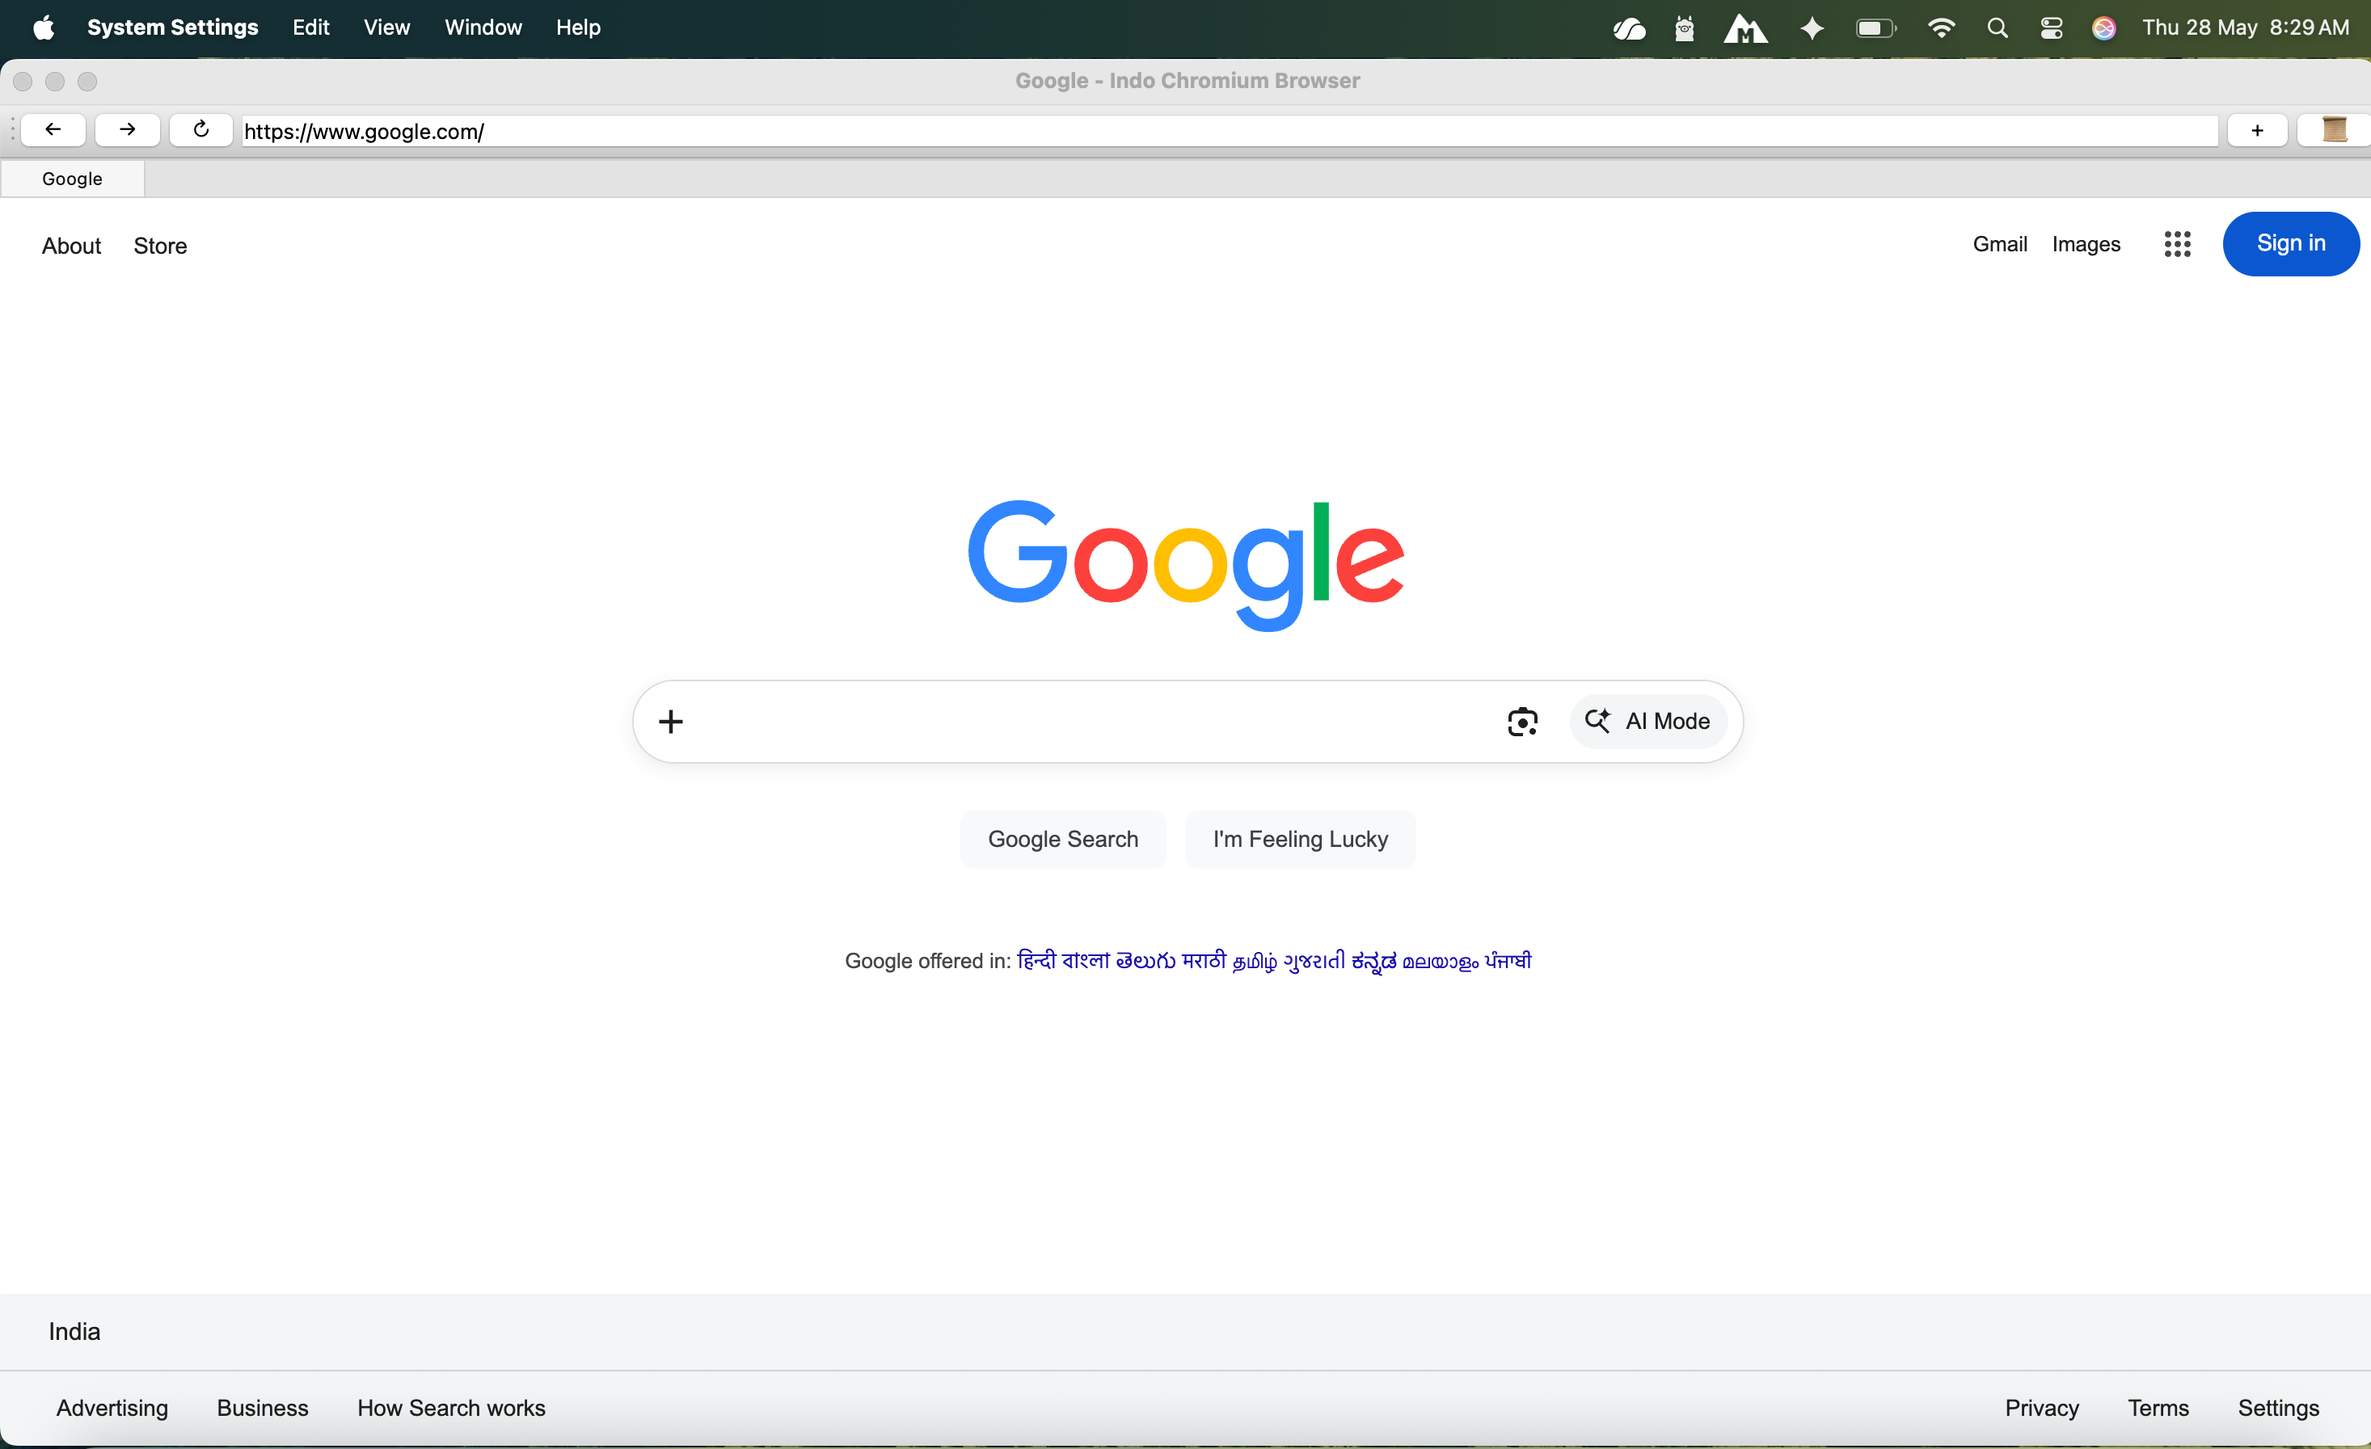
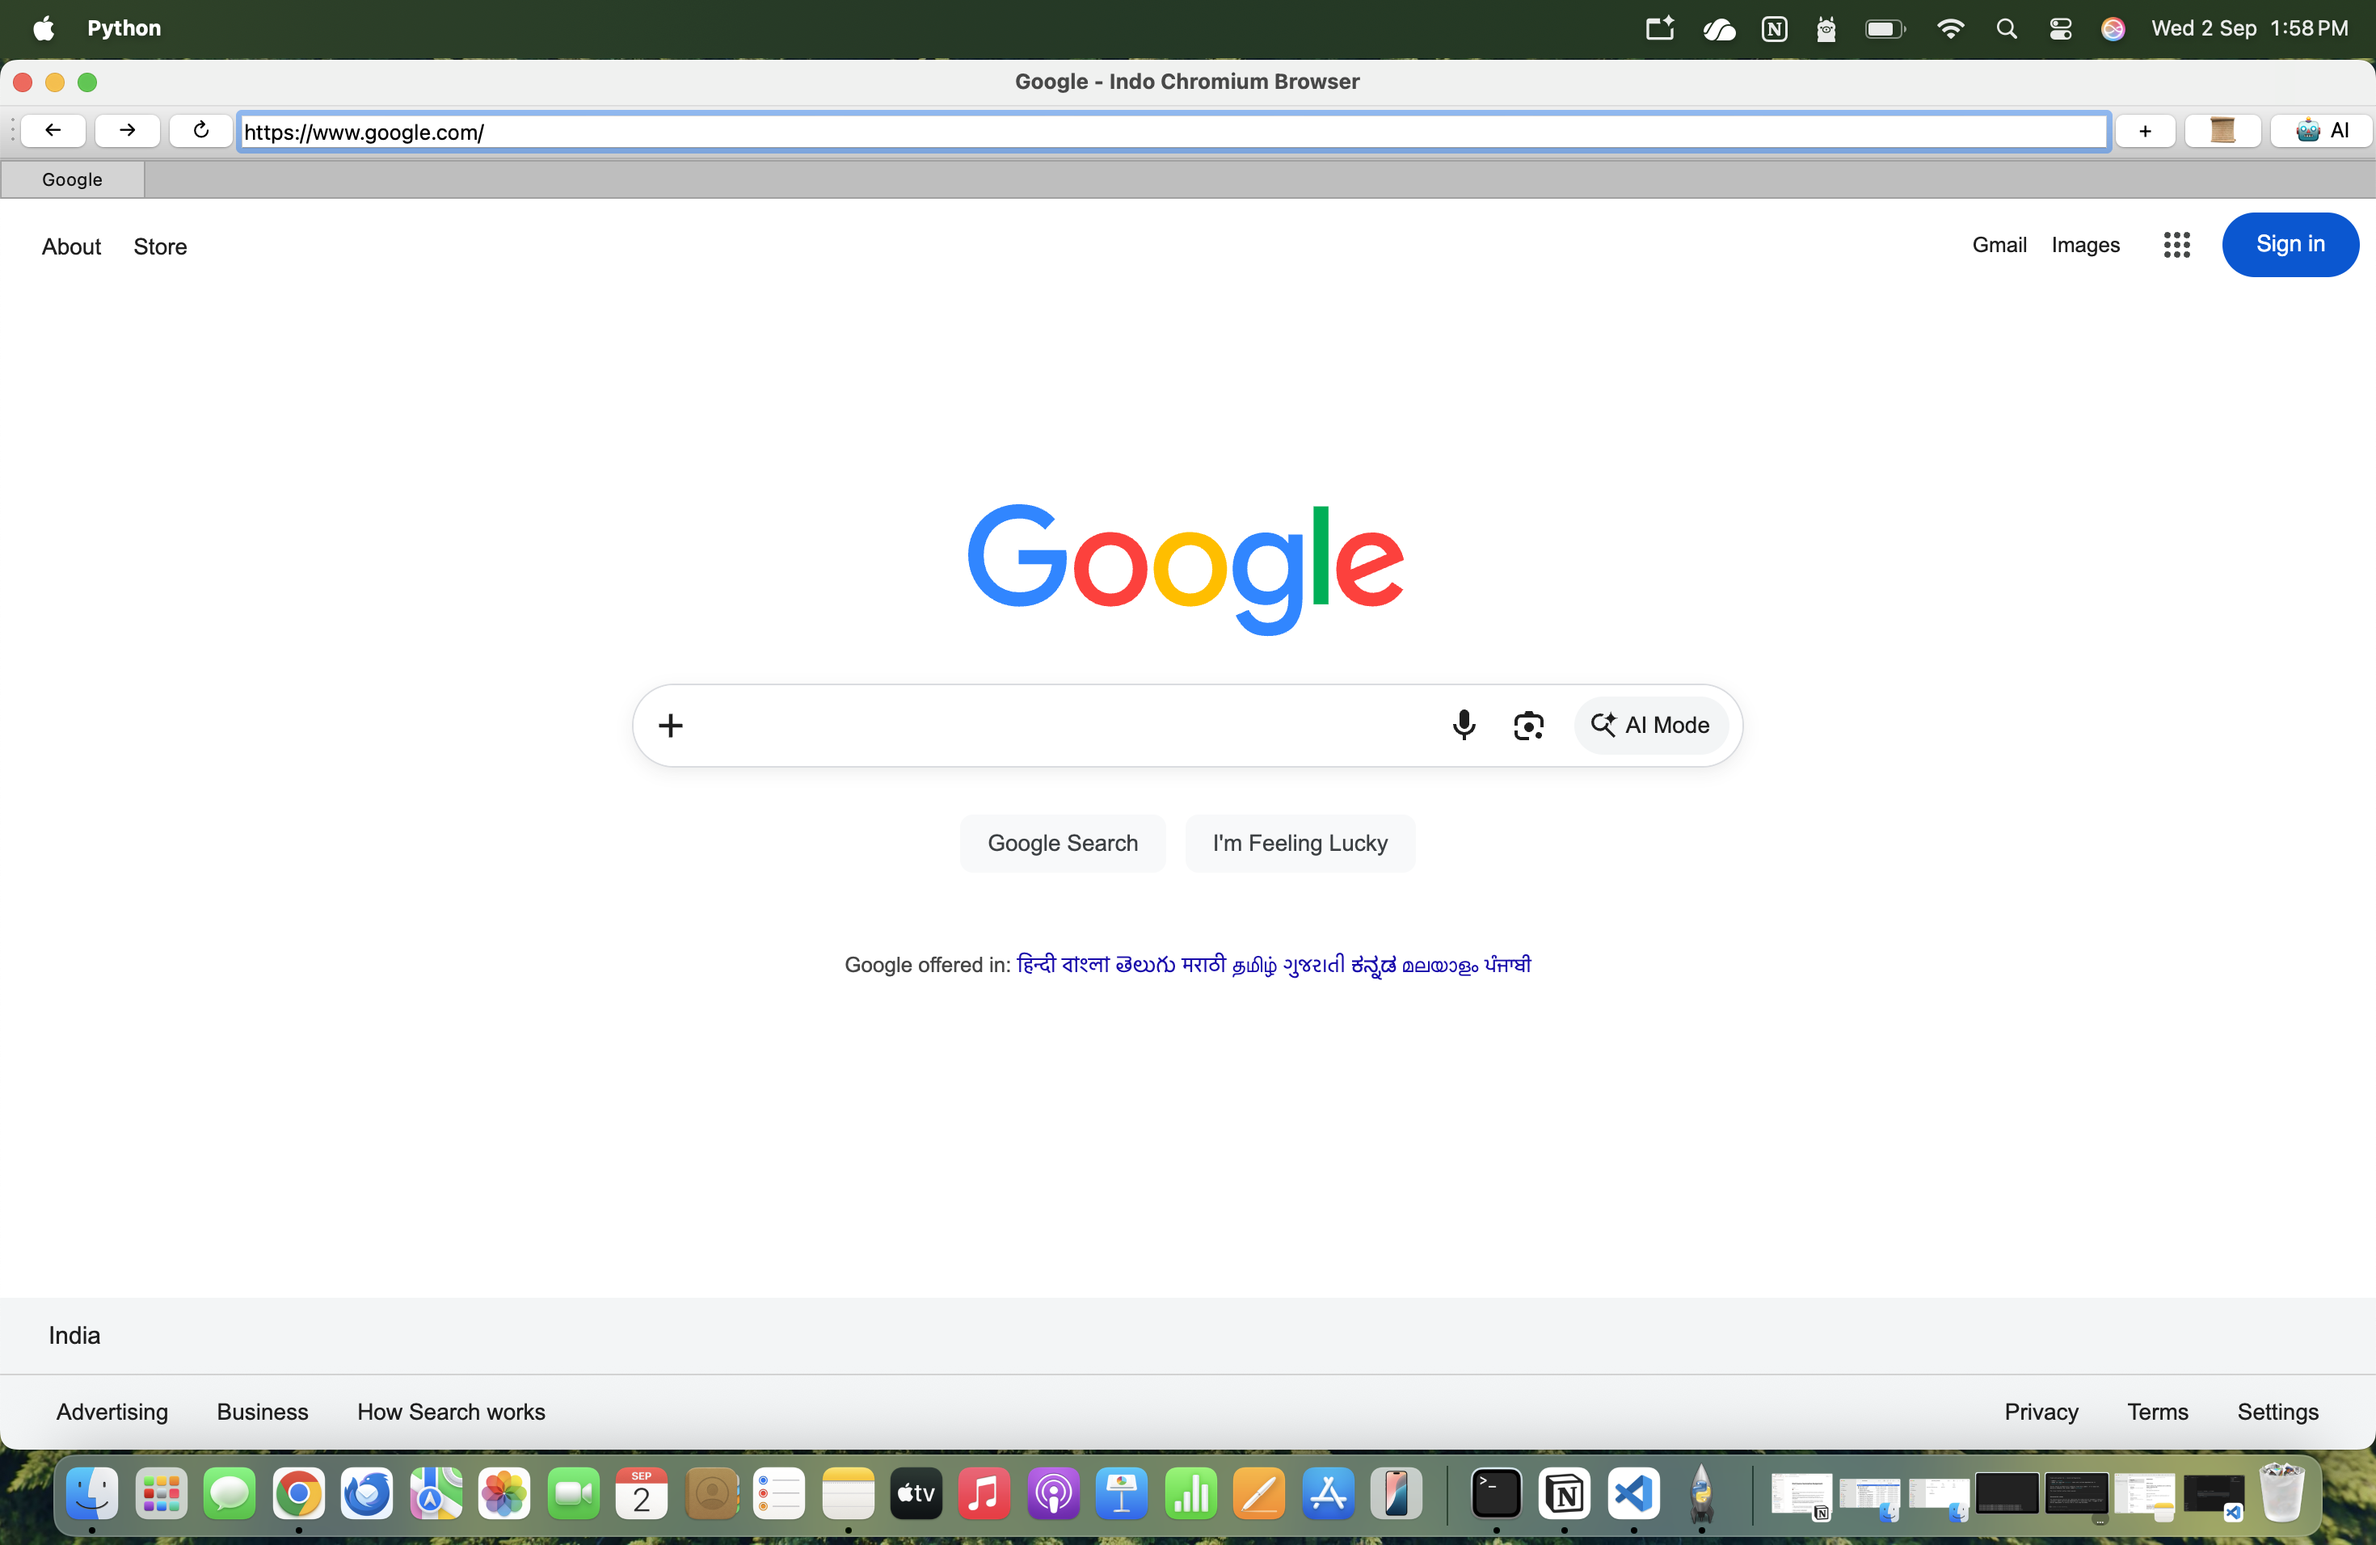
Add MiniCPM AI webpage assistant

diff --git a/README.md b/README.md
@@ -1,29 +1,276 @@
-# Personal Browser
+# Indo Chromium Browser + MiniCPM AI
 
-## Overview
-This project implements a multi-tab browser using PyQt6. The application allows users to open multiple tabs, navigate through various web pages, and manage their browsing experience effectively.
+A lightweight multi-tab desktop browser built with **PyQt6** and **PyQt6-WebEngine**, with an integrated AI sidebar powered by **MiniCPM5-2B-0822** through the ModelBest API.
+
+The AI assistant can read the currently displayed webpage and answer questions about its content.
 
 ## Features
-- Multi-tab support
-- User-friendly interface
-- Fast and responsive design
-- Customizable settings
+
+### Browser
+- Multi-tab browsing
+- New tab button
+- Back, Forward, Reload, and Home navigation
+- URL/search bar
+- Google search when a search phrase is entered
+- Browser history
+- External history-file opening
+- Chromium-based webpage rendering through Qt WebEngine
+
+### AI Assistant
+- Integrated AI sidebar
+- Powered by `MiniCPM5-2B-0822`
+- Uses the ModelBest Chat Completions API
+- Read the current webpage with one click
+- Ask questions about the current webpage
+- Page title and URL are included as context
+- Automatic webpage reading when asking a question without existing page context
+- Chat history during the current session
+- Clear chat option
+- Handles API, HTTP, and network errors
 
 ## Requirements
-- Python 3.x
-- PyQt6 library
+
+- Python 3.9+ recommended
+- PyQt6
+- PyQt6-WebEngine
+- A ModelBest API key with access to `MiniCPM5-2B-0822`
 
 ## Installation
-To install the required libraries, use the following command:
-```
-pip install PyQt6 PyQt6-WebEngine
+
+Clone the repository:
+
+```bash
+git clone https://github.com/shirishsriv/personal_browser.git
+cd personal_browser
 ```
 
-## Usage
-Run the application using:
+Install dependencies:
+
+```bash
+python3 -m pip install PyQt6 PyQt6-WebEngine
 ```
+
+### macOS Python note
+
+If `pip` and `python3` point to different Python installations, install using the same Python executable that will run the application:
+
+```bash
+python3 -m pip install PyQt6 PyQt6-WebEngine
+```
+
+You can check the Python installation with:
+
+```bash
+which python3
+python3 --version
+python3 -c "import sys; print(sys.executable)"
+```
+
+If you use the Python 3.11 installation from the official Python framework on macOS:
+
+```bash
+/Library/Frameworks/Python.framework/Versions/3.11/bin/python3 -m pip install PyQt6 PyQt6-WebEngine
+```
+
+## Configure the ModelBest API Key
+
+The application reads the API key from the environment variable:
+
+```text
+MODEL_BEST_API_KEY
+```
+
+### macOS / Linux
+
+```bash
+export MODEL_BEST_API_KEY="YOUR_TEST_KEY"
+```
+
+Then run:
+
+```bash
 python3 main.py
 ```
 
+### Windows PowerShell
+
+```powershell
+$env:MODEL_BEST_API_KEY="YOUR_TEST_KEY"
+python main.py
+```
+
+**Never hard-code the API key inside `main.py` and never commit it to GitHub.**
+
+## Running the Application
+
+From the project directory:
+
+```bash
+python3 main.py
+```
+
+On macOS, if necessary:
+
+```bash
+/Library/Frameworks/Python.framework/Versions/3.11/bin/python3 main.py
+```
+
+## Using the AI Assistant
+
+1. Start the browser.
+2. Open a webpage.
+3. Click the **🤖 AI** button to open the AI sidebar.
+4. Click **📖 Read Current Page**.
+5. Wait for the page content to be extracted.
+6. Type a question in the AI input box.
+7. Click **Send**.
+
+Example questions:
+
+```text
+Summarize this webpage.
+```
+
+```text
+What are the main points of this article?
+```
+
+```text
+Explain this page in simple language.
+```
+
+```text
+What are the important facts mentioned on this page?
+```
+
+The application extracts the rendered webpage text using Qt WebEngine's `toPlainText()` functionality. Very large pages are limited to approximately 30,000 characters to keep the AI request manageable.
+
+## Project Structure
+
+```text
+personal_browser/
+├── main.py
+├── README.md
+└── Application_Screenshot.png
+```
+
+## API Configuration
+
+The application communicates with:
+
+```text
+https://api.modelbest.cn/v1/chat/completions
+```
+
+The configured model is:
+
+```text
+MiniCPM5-2B-0822
+```
+
+The request uses the standard Chat Completions structure with a Bearer token supplied through `MODEL_BEST_API_KEY`.
+
+## Security
+
+Do not commit secrets to GitHub.
+
+Recommended:
+
+```bash
+export MODEL_BEST_API_KEY="YOUR_TEST_KEY"
+```
+
+Do not do this inside `main.py`:
+
+```python
+MODEL_BEST_API_KEY = "actual-secret-key"
+```
+
+If you create a `.env` file for local development, add it to `.gitignore`:
+
+```gitignore
+.env
+```
+
+## GitHub Workflow
+
+After modifying `main.py`:
+
+```bash
+git status
+git add main.py README.md
+git commit -m "Add MiniCPM AI webpage assistant"
+git push origin main
+```
+
+## Troubleshooting
+
+### `ModuleNotFoundError: No module named 'PyQt6'`
+
+Install the packages with the same Python interpreter used to run the application:
+
+```bash
+python3 -m pip install PyQt6 PyQt6-WebEngine
+```
+
+Then verify:
+
+```bash
+python3 -c "import PyQt6; print('PyQt6 installed')"
+```
+
+### AI says API key is missing
+
+Check that the environment variable exists.
+
+macOS/Linux:
+
+```bash
+echo $MODEL_BEST_API_KEY
+```
+
+Windows PowerShell:
+
+```powershell
+echo $env:MODEL_BEST_API_KEY
+```
+
+If it is empty, set it again and restart the application.
+
+### AI cannot answer questions about the page
+
+Click:
+
+```text
+📖 Read Current Page
+```
+
+before asking the question.
+
+Also make sure the webpage has finished loading.
+
+### API/network errors
+
+Check:
+- Internet connection
+- ModelBest API availability
+- API key validity
+- Model access
+- Firewall or network restrictions
+
+## Development
+
+The application intentionally uses Python's built-in HTTP libraries for the ModelBest request rather than requiring an additional AI SDK.
+
+Main technologies:
+
+- Python
+- PyQt6
+- PyQt6-WebEngine
+- Qt WebEngine
+- ModelBest API
+- MiniCPM5-2B-0822
+
 ## License
-This project is licensed under the MIT License.
+
+Add the appropriate license for your project before distributing it publicly.
